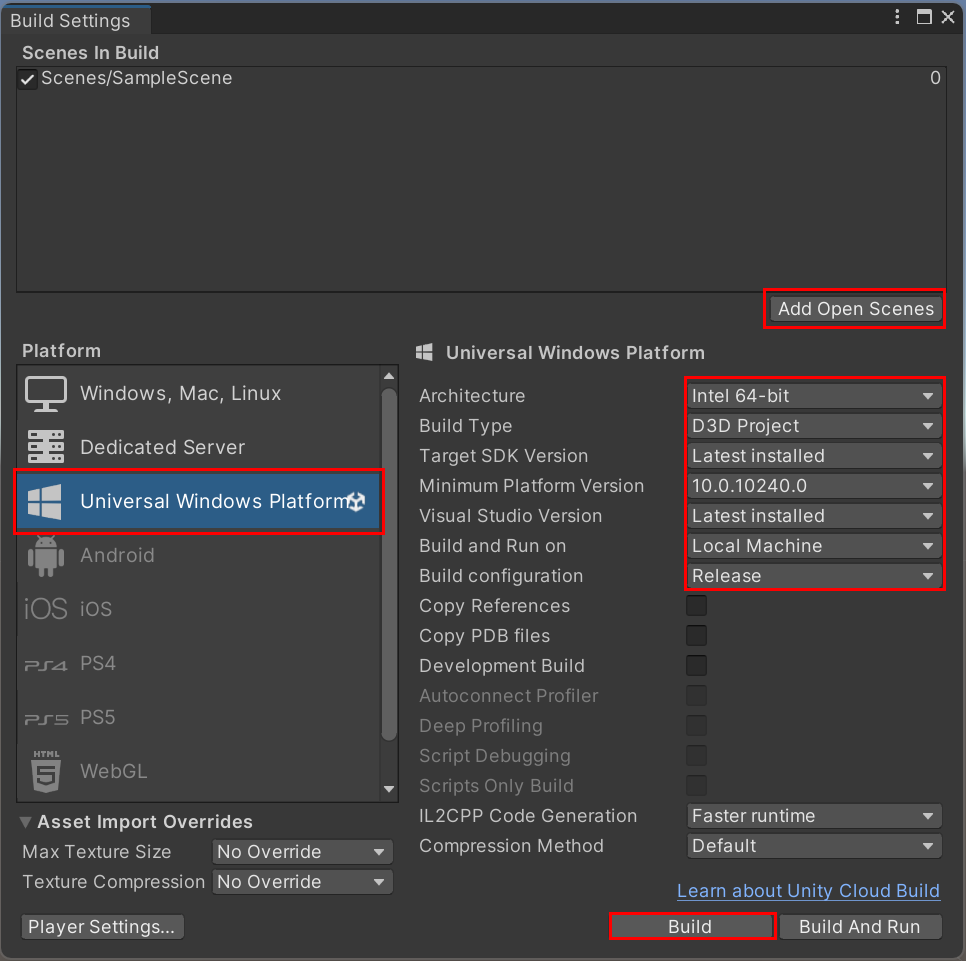
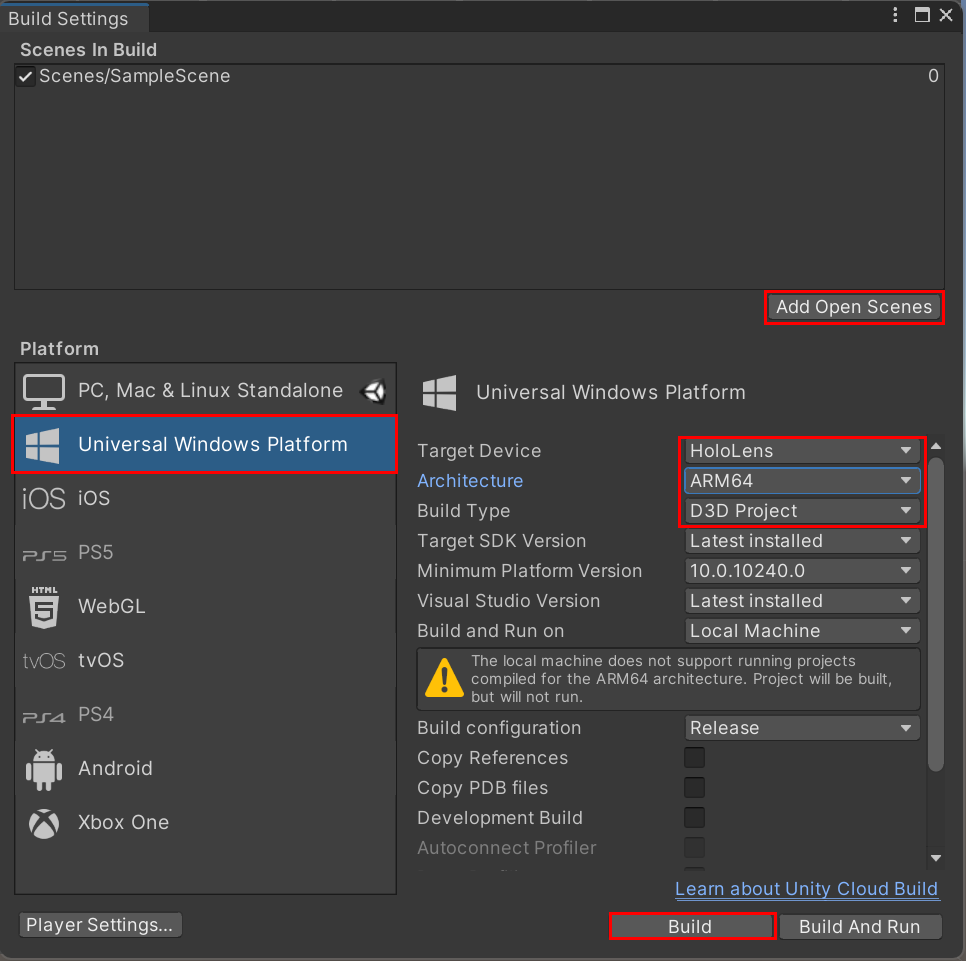
Updating Unity Build Settings Instructions
1. Updated screenshot
2. Changed architecture to ARM64
3. Changed Target Device to HoloLens

diff --git a/microsoft-edge/webview2/get-started/hololens2.md b/microsoft-edge/webview2/get-started/hololens2.md
@@ -311,17 +311,14 @@ Now that we have a basic web browser working in Unity, we can build and deploy i
 
 1. In Unity, open the **Build Settings** dialog (**File > Build Settings**).
 
-1. Make sure that the selected platform is **Universal Windows Platform**.
+1. Make sure that the selected platform is **Universal Windows Platform**. If not, click **Switch Platform**.
 
 1. Click **Add Open Scene** to add our sample scene to the list of scenes in the build.
 
 1. Under Universal Windows Platform, configure the build settings:
-    * **Architecture**: Intel 64-bit
+    * **Target Device**: HoloLens
+    * **Architecture**: ARM64
     * **Build Type**: D3D Project
-    * **Target SDK Version**: Latest installed
-    * **Visual Studio Version**: Latest version
-    * **Build and Run on**: Local Machine
-    * **Build configuration**: Release
 
    ![Unity's Build Settings dialog with Universal Windows Platform seetings](./hololens2-images/unity_build_settings.png)
 
